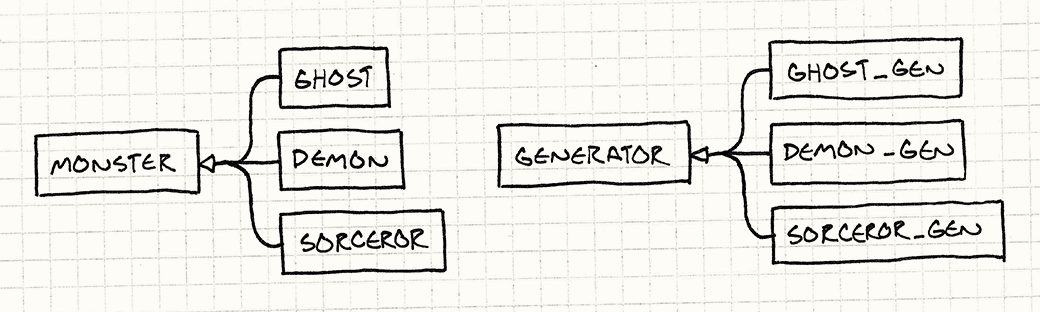
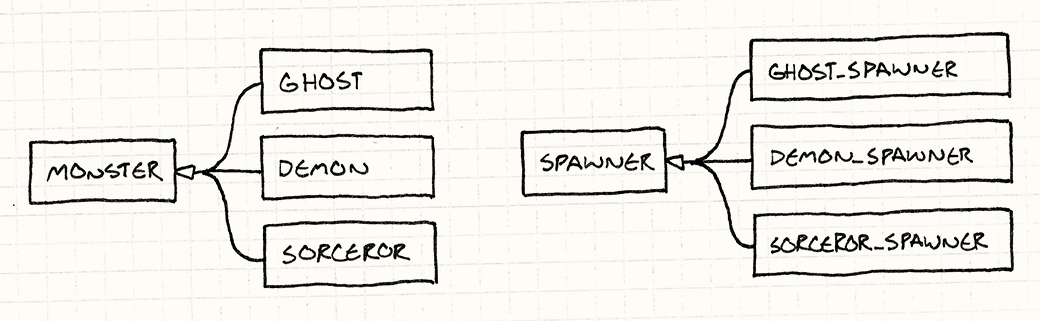
"Generator" -> "Spawner" in Prototype.

diff --git a/html/prototype.html b/html/prototype.html
@@ -66,11 +66,11 @@
 <h2><a href="#the-prototype-design-pattern" name="the-prototype-design-pattern">The Prototype Design Pattern</a></h2>
 <aside name="original">
 
-<p>I don&#x2019;t say "original" lightly here. <em>Design Patterns</em> cites Ivan Sutherland&#x2019;s legendary <a href="http://en.wikipedia.org/wiki/Sketchpad">Sketchpad</a> project in <em>1963</em> as one of the first examples of this pattern in the wild. While everyone else was listening to Dylan and the Beatles, he was busy just, you know, inventing the basic concepts of CAD, interactive graphics, and object-oriented programming.</p>
+<p>I don&#x2019;t say "original" lightly here. <em>Design Patterns</em> cites Ivan Sutherland&#x2019;s legendary <a href="http://en.wikipedia.org/wiki/Sketchpad">Sketchpad</a> project in <em>1963</em> as one of the first examples of this pattern in the wild. While everyone else was listening to Dylan and the Beatles, Sutherland was busy just, you know, inventing the basic concepts of CAD, interactive graphics, and object-oriented programming.</p>
 <p>Watch <a href="http://www.youtube.com/watch?v=USyoT_Ha_bA">the demo</a> and prepare to be blown away.</p>
 </aside>
 
-<p>Pretend we&#x2019;re making a game in the style of Gauntlet. We&#x2019;ve got creatures and fiends swarming around the hero, vying for their share of his flesh. These unsavory dinner companions enter the arena by way of generators, and there is a different generator for each kind of enemy.</p>
+<p>Pretend we&#x2019;re making a game in the style of Gauntlet. We&#x2019;ve got creatures and fiends swarming around the hero, vying for their share of his flesh. These unsavory dinner companions enter the arena by way of "spawners", and there is a different spawner for each kind of enemy.</p>
 <p>For the sake of this example, let&#x2019;s say we have different types for each kind of monster in the game. We&#x2019;ll have actual C++ classes for <code>Ghost</code>, <code>Demon</code>, <code>Sorcerer</code>, etc., like:</p>
 <div class="codehilite"><pre><span class="k">class</span> <span class="nc">Monster</span>
 <span class="p">{</span>
@@ -83,29 +83,29 @@
 </pre></div>
 
 
-<p>A generator constructs instances of one particular monster type. To support every monster in the game, we could brute-force it by having a generator class for each monster class, leading to a parallel class hierarchy:</p>
+<p>A spawner constructs instances of one particular monster type. To support every monster in the game, we could brute-force it by having a spawner class for each monster class, leading to a parallel class hierarchy:</p>
 <p><img src="images/prototype-hierarchies.png" /></p>
 <p>Implementing it looks like this:</p>
-<div class="codehilite"><pre><span class="k">class</span> <span class="nc">Generator</span>
+<div class="codehilite"><pre><span class="k">class</span> <span class="nc">Spawner</span>
 <span class="p">{</span>
 <span class="nl">public:</span>
-  <span class="k">virtual</span> <span class="o">~</span><span class="n">Generator</span><span class="p">()</span> <span class="p">{}</span>
-  <span class="k">virtual</span> <span class="n">Monster</span><span class="o">*</span> <span class="n">generateMonster</span><span class="p">()</span> <span class="o">=</span> <span class="mi">0</span><span class="p">;</span>
+  <span class="k">virtual</span> <span class="o">~</span><span class="n">Spawner</span><span class="p">()</span> <span class="p">{}</span>
+  <span class="k">virtual</span> <span class="n">Monster</span><span class="o">*</span> <span class="n">spawnMonster</span><span class="p">()</span> <span class="o">=</span> <span class="mi">0</span><span class="p">;</span>
 <span class="p">};</span>
 
-<span class="k">class</span> <span class="nc">GhostGenerator</span> <span class="o">:</span> <span class="k">public</span> <span class="n">Generator</span>
+<span class="k">class</span> <span class="nc">GhostSpawner</span> <span class="o">:</span> <span class="k">public</span> <span class="n">Spawner</span>
 <span class="p">{</span>
 <span class="nl">public:</span>
-  <span class="n">Monster</span><span class="o">*</span> <span class="n">generateMonster</span><span class="p">()</span>
+  <span class="n">Monster</span><span class="o">*</span> <span class="n">spawnMonster</span><span class="p">()</span>
   <span class="p">{</span>
     <span class="k">return</span> <span class="k">new</span> <span class="n">Ghost</span><span class="p">();</span>
   <span class="p">}</span>
 <span class="p">};</span>
 
-<span class="k">class</span> <span class="nc">DemonGenerator</span> <span class="o">:</span> <span class="k">public</span> <span class="n">Generator</span>
+<span class="k">class</span> <span class="nc">DemonSpawner</span> <span class="o">:</span> <span class="k">public</span> <span class="n">Spawner</span>
 <span class="p">{</span>
 <span class="nl">public:</span>
-  <span class="n">Monster</span><span class="o">*</span> <span class="n">generateMonster</span><span class="p">()</span>
+  <span class="n">Monster</span><span class="o">*</span> <span class="n">spawnMonster</span><span class="p">()</span>
   <span class="p">{</span>
     <span class="k">return</span> <span class="k">new</span> <span class="n">Demon</span><span class="p">();</span>
   <span class="p">}</span>
@@ -116,7 +116,7 @@
 
 
 <p>Unless you get paid by the line of code, this is pretty obviously not a fun way to hack this together. Lots of classes, lots of boilerplate, lots of redundancy, lots of duplication, lots of repeating myself&hellip;</p>
-<p>The prototype pattern offers a solution. The key idea is that <em>an object can be a generator of other objects similar to itself</em>. If you have one ghost, you can make more ghosts from it. If you have a demon, you can make other demons. Any monster can be treated as a <em>prototypical</em> monster used to spawn other versions of itself.</p>
+<p>The prototype pattern offers a solution. The key idea is that <em>an object can spawn other objects similar to itself</em>. If you have one ghost, you can make more ghosts from it. If you have a demon, you can make other demons. Any monster can be treated as a <em>prototypical</em> monster used to generate other versions of itself.</p>
 <p>To implement this, we give our base class, <code>Monster</code>, an abstract <code>clone()</code> method:</p>
 <div class="codehilite"><pre><span class="k">class</span> <span class="nc">Monster</span>
 <span class="p">{</span>
@@ -149,15 +149,15 @@
 </pre></div>
 
 
-<p>Once all our monsters support that, we no longer need a generator class for each monster class. Instead, we define a single one:</p>
-<div class="codehilite"><pre><span class="k">class</span> <span class="nc">Generator</span>
+<p>Once all our monsters support that, we no longer need a spawner class for each monster class. Instead, we define a single one:</p>
+<div class="codehilite"><pre><span class="k">class</span> <span class="nc">Spawner</span>
 <span class="p">{</span>
 <span class="nl">public:</span>
-  <span class="n">Generator</span><span class="p">(</span><span class="n">Monster</span><span class="o">*</span> <span class="n">prototype</span><span class="p">)</span>
+  <span class="n">Spawner</span><span class="p">(</span><span class="n">Monster</span><span class="o">*</span> <span class="n">prototype</span><span class="p">)</span>
   <span class="o">:</span> <span class="n">prototype_</span><span class="p">(</span><span class="n">prototype</span><span class="p">)</span>
   <span class="p">{}</span>
 
-  <span class="n">Monster</span><span class="o">*</span> <span class="n">generateMonster</span><span class="p">()</span>
+  <span class="n">Monster</span><span class="o">*</span> <span class="n">spawnMonster</span><span class="p">()</span>
   <span class="p">{</span>
     <span class="k">return</span> <span class="n">prototype_</span><span class="o">-&gt;</span><span class="n">clone</span><span class="p">();</span>
   <span class="p">}</span>
@@ -168,99 +168,83 @@
 </pre></div>
 
 
-<p>It internally holds a monster, a hidden one whose sole purpose is to be used by the generator as a template to stamp out more monsters like it, sort of like a queen bee who never leaves the hive.</p>
-<p><img src="images/prototype-generator.png" /></p>
-<p>To create a ghost generator, we just create a prototypical ghost instance, and then create a generator holding that prototype:</p>
+<p>It internally holds a monster, a hidden one whose sole purpose is to be used by the spawner as a template to stamp out more monsters like it, sort of like a queen bee who never leaves the hive.</p>
+<p><img src="images/prototype-spawner.png" /></p>
+<p>To create a ghost spawner, we just create a prototypical ghost instance, and then create a spawner holding that prototype:</p>
 <div class="codehilite"><pre><span class="n">Monster</span><span class="o">*</span> <span class="n">ghostPrototype</span> <span class="o">=</span> <span class="k">new</span> <span class="n">Ghost</span><span class="p">(</span><span class="mi">15</span><span class="p">,</span> <span class="mi">3</span><span class="p">);</span>
-<span class="n">Generator</span><span class="o">*</span> <span class="n">ghostGenerator</span> <span class="o">=</span> <span class="k">new</span> <span class="n">Generator</span><span class="p">(</span><span class="n">ghostPrototype</span><span class="p">);</span>
+<span class="n">Spawner</span><span class="o">*</span> <span class="n">ghostSpawner</span> <span class="o">=</span> <span class="k">new</span> <span class="n">Spawner</span><span class="p">(</span><span class="n">ghostPrototype</span><span class="p">);</span>
 </pre></div>
 
 
-<p>One neat part about this pattern is that it doesn&#x2019;t just clone the <em>class</em> of the prototype, it clones its <em>state</em> too. This means we could make a generator for fast ghosts, or weak ones, or slow ones, just by creating an appropriate prototype ghost.</p>
-<p>I find something both elegant and yet surprising about this pattern. I can&#x2019;t imagine coming up with it myself, but it&#x2019;s such a simple and natural concept.</p>
+<p>One neat part about this pattern is that it doesn&#x2019;t just clone the <em>class</em> of the prototype, it clones its <em>state</em> too. This means we could make a spawner for fast ghosts, or weak ones, or slow ones, just by creating an appropriate prototype ghost.</p>
+<p>I find something both elegant and yet surprising about this pattern. I can&#x2019;t imagine coming up with it myself, but I can&#x2019;t imagine <em>not</em> knowing about it now that I do.</p>
 <h3><a href="#how-well-does-it-work" name="how-well-does-it-work">How well does it work?</a></h3>
-<p>Well, we don&#x2019;t have to create a separate generator class for each monster, so that&#x2019;s good. But we <em>do</em> have to implement <code>clone()</code> in each monster class. That&#x2019;s just about as much code as the generators.</p>
+<p>Well, we don&#x2019;t have to create a separate spawner class for each monster, so that&#x2019;s good. But we <em>do</em> have to implement <code>clone()</code> in each monster class. That&#x2019;s just about as much code as the spawners.</p>
 <p>There are also some nasty semantic ratholes when you sit down to try to write a correct <code>clone()</code>. Does it do a deep clone or shallow one? (I.e. when a field is a reference to an object, do we clone that object too, or just the reference?) How does it interact with ownership?</p>
 <p>Also, not only does it not look like it&#x2019;s saving us much code in this contrived problem, there&#x2019;s the fact that it&#x2019;s a <em>contrived problem</em>. We had to take as a given that we have separate classes for each monster. These days, that&#x2019;s definitely <em>not</em> the way most game engines roll.</p>
 <p>Most of us learned the hard way that big class hierarchies like this are a pain to manage, which is why we instead use patterns like <a href="component.html" class="pattern">Component</a> and <a href="type-object.html" class="pattern">Type Object</a> to model different kinds of entities without enshrining each in its own class.</p>
-<h3><a href="#generator-functions" name="generator-functions">Generator functions</a></h3>
-<p>Even if we do have different classes for each monster, there are other ways to decorticate this <em>Felis catus</em>. Instead of making separate generator <em>classes</em> for each monster, we could make generator <em>functions</em>, like so:</p>
-<div class="codehilite"><pre><span class="n">Monster</span><span class="o">*</span> <span class="nf">generateGhost</span><span class="p">()</span>
+<h3><a href="#spawn-functions" name="spawn-functions">Spawn functions</a></h3>
+<p>Even if we do have different classes for each monster, there are other ways to decorticate this <em>Felis catus</em>. Instead of making separate spawner <em>classes</em> for each monster, we could make spawn <em>functions</em>, like so:</p>
+<div class="codehilite"><pre><span class="n">Monster</span><span class="o">*</span> <span class="nf">spawnGhost</span><span class="p">()</span>
 <span class="p">{</span>
   <span class="k">return</span> <span class="k">new</span> <span class="n">Ghost</span><span class="p">();</span>
 <span class="p">}</span>
 </pre></div>
 
 
-<p>This is less boilerplate than rolling a whole class for constructing a monster of some type. Then the one generator class can just store a function pointer:</p>
-<div class="codehilite"><pre><span class="k">typedef</span> <span class="n">Monster</span><span class="o">*</span> <span class="p">(</span><span class="o">*</span><span class="n">GenerateCallback</span><span class="p">)();</span>
-
-<span class="k">class</span> <span class="nc">Generator</span>
-<span class="p">{</span>
-<span class="nl">public:</span>
-  <span class="n">Generator</span><span class="p">(</span><span class="n">GenerateCallback</span> <span class="n">generate</span><span class="p">)</span>
-  <span class="o">:</span> <span class="n">generate_</span><span class="p">(</span><span class="n">generate</span><span class="p">)</span>
-  <span class="p">{}</span>
-
-  <span class="n">Monster</span><span class="o">*</span> <span class="n">generateMonster</span><span class="p">()</span>
-  <span class="p">{</span>
-    <span class="k">return</span> <span class="n">generate_</span><span class="p">();</span>
-  <span class="p">}</span>
-
-<span class="nl">private:</span>
-  <span class="n">GenerateCallback</span> <span class="n">generate_</span><span class="p">;</span>
-<span class="p">};</span>
+<p>This is less boilerplate than rolling a whole class for constructing a monster of some type. Then the one spawner class can just store a function pointer:</p>
+<div class="codehilite"><pre>
 </pre></div>
 
 
-<p>To create a generator for ghosts, you just do:</p>
-<div class="codehilite"><pre><span class="n">Generator</span><span class="o">*</span> <span class="n">ghostGenerator</span> <span class="o">=</span> <span class="k">new</span> <span class="n">Generator</span><span class="p">(</span><span class="n">generateGhost</span><span class="p">);</span>
+<p>To create a spawner for ghosts, you just do:</p>
+<div class="codehilite"><pre><span class="n">Spawner</span><span class="o">*</span> <span class="n">ghostSpawner</span> <span class="o">=</span> <span class="k">new</span> <span class="n">Spawner</span><span class="p">(</span><span class="n">spawnGhost</span><span class="p">);</span>
 </pre></div>
 
 
 <h3><a href="#templates" name="templates">Templates</a></h3>
-<p>By <span name="templates">now</span>, most C++ developers are familiar with templates. Our generator class needs to construct instances of some type, but we don&#x2019;t want to hard code some specific monster class. The natural solution then is to make it a <em>type parameter</em>, which templates let us do:</p>
+<p>By <span name="templates">now</span>, most C++ developers are familiar with templates. Our spawner class needs to construct instances of some type, but we don&#x2019;t want to hard code some specific monster class. The natural solution then is to make it a <em>type parameter</em>, which templates let us do:</p>
 <aside name="templates">
 
 <p>I&#x2019;m not sure if C++ programmers learned to love them, or if templates just scared some people completely away from C++. Either way, everyone I see using C++ today uses templates too.</p>
 </aside>
 
 <p><span name="base"></span></p>
-<div class="codehilite"><pre><span class="k">class</span> <span class="nc">Generator</span>
+<div class="codehilite"><pre><span class="k">class</span> <span class="nc">Spawner</span>
 <span class="p">{</span>
 <span class="nl">public:</span>
-  <span class="k">virtual</span> <span class="o">~</span><span class="n">Generator</span><span class="p">()</span> <span class="p">{}</span>
-  <span class="k">virtual</span> <span class="n">Monster</span><span class="o">*</span> <span class="n">generateMonster</span><span class="p">()</span> <span class="o">=</span> <span class="mi">0</span><span class="p">;</span>
+  <span class="k">virtual</span> <span class="o">~</span><span class="n">Spawner</span><span class="p">()</span> <span class="p">{}</span>
+  <span class="k">virtual</span> <span class="n">Monster</span><span class="o">*</span> <span class="n">spawnMonster</span><span class="p">()</span> <span class="o">=</span> <span class="mi">0</span><span class="p">;</span>
 <span class="p">};</span>
 
 <span class="k">template</span> <span class="o">&lt;</span><span class="k">class</span> <span class="nc">T</span><span class="o">&gt;</span>
-<span class="k">class</span> <span class="nc">GeneratorFor</span> <span class="o">:</span> <span class="k">public</span> <span class="n">Generator</span>
+<span class="k">class</span> <span class="nc">SpawnerFor</span> <span class="o">:</span> <span class="k">public</span> <span class="n">Spawner</span>
 <span class="p">{</span>
 <span class="nl">public:</span>
-  <span class="n">Monster</span><span class="o">*</span> <span class="n">generateMonster</span><span class="p">()</span> <span class="p">{</span> <span class="k">return</span> <span class="k">new</span> <span class="n">T</span><span class="p">();</span> <span class="p">}</span>
+  <span class="n">Monster</span><span class="o">*</span> <span class="n">spawnMonster</span><span class="p">()</span> <span class="p">{</span> <span class="k">return</span> <span class="k">new</span> <span class="n">T</span><span class="p">();</span> <span class="p">}</span>
 <span class="p">};</span>
 </pre></div>
 
 
 <p>Using it looks like:</p>
-<div class="codehilite"><pre><span class="n">Generator</span><span class="o">*</span> <span class="n">ghostGenerator</span> <span class="o">=</span> <span class="k">new</span> <span class="n">GeneratorFor</span><span class="o">&lt;</span><span class="n">Ghost</span><span class="o">&gt;</span><span class="p">();</span>
+<div class="codehilite"><pre><span class="n">Spawner</span><span class="o">*</span> <span class="n">ghostSpawner</span> <span class="o">=</span> <span class="k">new</span> <span class="n">SpawnerFor</span><span class="o">&lt;</span><span class="n">Ghost</span><span class="o">&gt;</span><span class="p">();</span>
 </pre></div>
 
 
 <aside name="base">
 
-<p>The <code>Generator</code> class here is so that code that doesn&#x2019;t care what kind of monster a generator creates can just use it and work with pointers to <code>Monster</code>.</p>
-<p>If we only had the templated class, there would be no single supertype they all shared, so any code that worked with generators of any monster type would itself need to take a template parameter.</p>
+<p>The <code>Spawner</code> class here is so that code that doesn&#x2019;t care what kind of monster a spawner creates can just use it and work with pointers to <code>Monster</code>.</p>
+<p>If we only had the <code>SpawnerFor&lt;T&gt;</code> class, there would be no single supertype the instantiations of that template all shared, so any code that worked with spawners of any monster type would itself need to take a template parameter.</p>
 </aside>
 
 <h3><a href="#first-class-types" name="first-class-types">First-class types</a></h3>
-<p>The previous two solutions address the need to have a class, <code>Generator</code>, which is parameterized by a type. In C++, types aren&#x2019;t generally first-class, so that requires some <span name="type-obj">gymnastics</span>. If you&#x2019;re using a dynamically-typed language like JavaScript, Python or Ruby where classes <em>are</em> just regular objects you can pass around, you can solve this much more directly.</p>
+<p>The previous two solutions address the need to have a class, <code>Spawner</code>, which is parameterized by a type. In C++, types aren&#x2019;t generally first-class, so that requires some <span name="type-obj">gymnastics</span>. If you&#x2019;re using a dynamically-typed language like JavaScript, Python or Ruby where classes <em>are</em> just regular objects you can pass around, you can solve this much more directly.</p>
 <aside name="type-obj">
 
 <p>In some ways, the <a href="type-object.html" class="pattern">Type Object</a> pattern is another workaround for the lack of first-class types. That pattern can still be useful even in languages with them, though, because it lets <em>you</em> define what a "type" is. You may want different semantics than what the language&#x2019;s built-in classes.</p>
 </aside>
 
-<p>When you make a generator, just pass in the class of monster that it should construct&thinsp;&mdash;&thinsp;literally the actual runtime object that represents the monster&#x2019;s class. Easy as pie.</p>
+<p>When you make a spawner, just pass in the class of monster that it should construct&thinsp;&mdash;&thinsp;literally the actual runtime object that represents the monster&#x2019;s class. Easy as pie.</p>
 <p>With all of these options, I honestly can&#x2019;t say I&#x2019;ve found a case where I felt the prototype <em>design pattern</em> was the best answer. Maybe your experience will be different, but for now let&#x2019;s put that away and talk about something else: prototypes as a <em>language paradigm</em>.</p>
 <h2><a href="#the-prototype-language-paradigm" name="the-prototype-language-paradigm">The Prototype Language Paradigm</a></h2>
 <p>Many people think "object-oriented programming" is synonymous with "classes". Definitions of OOP tend to feel like credos of opposing religious denominations, but a fairly non-contentious take on it is that <em>OOP lets you define "objects" which bundle data and behavior together.</em> Compared to structured languages like C and functional languages like Scheme, the defining characteristic of OOP is that it tightly binds state and behavior together.</p>

diff --git a/code/cpp/prototype.h b/code/cpp/prototype.h
@@ -16,34 +16,34 @@ namespace PrototypePattern
     class Sorcerer : public Monster {};
     //^monster-classes
 
-    //^generator-classes
-    class Generator
+    //^spawner-classes
+    class Spawner
     {
     public:
-      virtual ~Generator() {}
-      virtual Monster* generateMonster() = 0;
+      virtual ~Spawner() {}
+      virtual Monster* spawnMonster() = 0;
     };
 
-    class GhostGenerator : public Generator
+    class GhostSpawner : public Spawner
     {
     public:
-      Monster* generateMonster()
+      Monster* spawnMonster()
       {
         return new Ghost();
       }
     };
 
-    class DemonGenerator : public Generator
+    class DemonSpawner : public Spawner
     {
     public:
-      Monster* generateMonster()
+      Monster* spawnMonster()
       {
         return new Demon();
       }
     };
 
     // You get the idea...
-    //^generator-classes
+    //^spawner-classes
   }
 
   namespace Clone
@@ -79,15 +79,15 @@ namespace PrototypePattern
     //^clone-ghost
 
 
-    //^generator-clone
-    class Generator
+    //^spawner-clone
+    class Spawner
     {
     public:
-      Generator(Monster* prototype)
+      Spawner(Monster* prototype)
       : prototype_(prototype)
       {}
 
-      Monster* generateMonster()
+      Monster* spawnMonster()
       {
         return prototype_->clone();
       }
@@ -95,15 +95,15 @@ namespace PrototypePattern
     private:
       Monster* prototype_;
     };
-    //^generator-clone
+    //^spawner-clone
 
     void test()
     {
-      //^generate-ghost-clone
+      //^spawn-ghost-clone
       Monster* ghostPrototype = new Ghost(15, 3);
-      Generator* ghostGenerator = new Generator(ghostPrototype);
-      //^generate-ghost-clone
-      use(ghostGenerator);
+      Spawner* ghostSpawner = new Spawner(ghostPrototype);
+      //^spawn-ghost-clone
+      use(ghostSpawner);
     }
   }
 
@@ -117,38 +117,38 @@ namespace PrototypePattern
     class Ghost : public Monster {};
 
     //^callback
-    Monster* generateGhost()
+    Monster* spawnGhost()
     {
       return new Ghost();
     }
     //^callback
 
-    //^generator-callback
-    typedef Monster* (*GenerateCallback)();
+    //^spawn-callback
+    typedef Monster* (*SpawnCallback)();
 
-    class Generator
+    class Spawner
     {
     public:
-      Generator(GenerateCallback generate)
-      : generate_(generate)
+      Spawner(SpawnCallback spawn)
+      : spawn_(spawn)
       {}
 
-      Monster* generateMonster()
+      Monster* spawnMonster()
       {
-        return generate_();
+        return spawn_();
       }
 
     private:
-      GenerateCallback generate_;
+      SpawnCallback spawn_;
     };
-    //^generator-callback
+    //^spawn-callback
 
     void test()
     {
-      //^generate-ghost-callback
-      Generator* ghostGenerator = new Generator(generateGhost);
-      //^generate-ghost-callback
-      use(ghostGenerator);
+      //^spawn-ghost-callback
+      Spawner* ghostSpawner = new Spawner(spawnGhost);
+      //^spawn-ghost-callback
+      use(ghostSpawner);
     }
   }
 
@@ -162,27 +162,27 @@ namespace PrototypePattern
     class Ghost : public Monster {};
 
     //^templates
-    class Generator
+    class Spawner
     {
     public:
-      virtual ~Generator() {}
-      virtual Monster* generateMonster() = 0;
+      virtual ~Spawner() {}
+      virtual Monster* spawnMonster() = 0;
     };
 
     template <class T>
-    class GeneratorFor : public Generator
+    class SpawnerFor : public Spawner
     {
     public:
-      Monster* generateMonster() { return new T(); }
+      Monster* spawnMonster() { return new T(); }
     };
     //^templates
 
     void test()
     {
       //^use-templates
-      Generator* ghostGenerator = new GeneratorFor<Ghost>();
+      Spawner* ghostSpawner = new SpawnerFor<Ghost>();
       //^use-templates
-      use(ghostGenerator);
+      use(ghostSpawner);
     }
   }
 }
